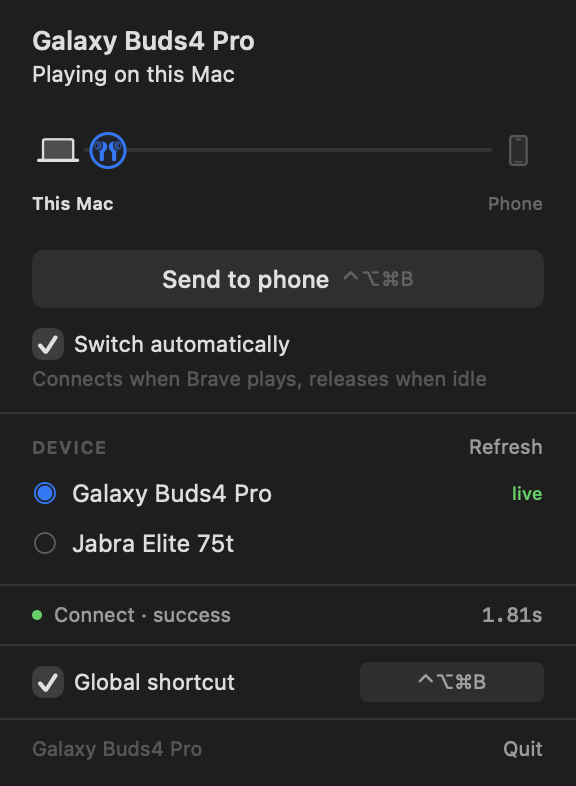
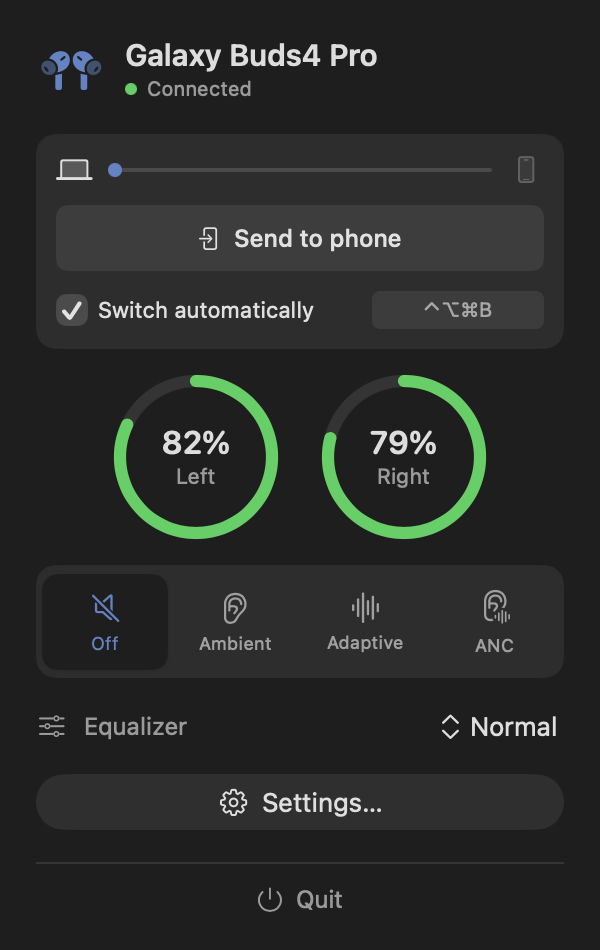
Update the README for the merged app
The README still described BudSwitch as a switcher alone, with screenshots of
a UI that no longer exists — merging it would have put a misleading front
page on main.

Regenerated both panel screenshots from the current UI, dropped the stale
multipoint one, and documented what the app now is: a switcher that is also a
Galaxy Buds control panel, with attribution to galaxy-buds-mac. Also
refreshed the project layout for the SPM tree, the build description now that
SPM compiles rather than a hand-listed swiftc call, and the hotkey rule,
which now requires two modifiers.

diff --git a/README.md b/README.md
@@ -5,6 +5,7 @@
 # BudSwitch
 
 **Your earbuds follow you between your Mac and your phone — automatically.**
+**Battery, ANC and EQ for Galaxy Buds, in the same panel.**
 
 <sub>Free and open source · No account, no telemetry, no network access</sub>
 
@@ -26,6 +27,10 @@ digging into Bluetooth settings, disconnecting, reconnecting — every single ti
 BudSwitch does it for you. Press play on your Mac and your buds come to you. Walk away and
 it frees them, so your phone can take them back — [one routine on the
 phone](#make-it-work-both-ways) makes that automatic too.
+
+For **Galaxy Buds** it is also a full control panel: per-bud battery, noise control,
+equaliser, touch controls and find-my — built on
+[vedatkilic/galaxy-buds-mac](https://github.com/vedatkilic/galaxy-buds-mac).
 
 <div align="center">
 <img src="docs/images/panel-mac.png" width="300" alt="BudSwitch panel with buds connected to the Mac">
@@ -92,21 +97,18 @@ pair them for you.
 | Mac sleeps or locks | Buds released immediately |
 | <kbd>⌃</kbd><kbd>⌥</kbd><kbd>⌘</kbd><kbd>B</kbd> from anywhere | Toggle, always wins |
 
-<table>
-<tr>
-<td width="50%" align="center">
-<img src="docs/images/panel-phone.png" width="290" alt="Buds on the phone">
-<br><em>Buds are on your phone</em>
-</td>
-<td width="50%" align="center">
-<img src="docs/images/panel-multipoint.png" width="290" alt="Multipoint device connected to both">
-<br><em>Multipoint — connected to both, switches in milliseconds</em>
-</td>
-</tr>
-</table>
+<div align="center">
+<img src="docs/images/panel-phone.png" width="290" alt="Buds released to the phone">
+<br><em>Released — the phone can take them</em>
+</div>
 
-The route line shows which side holds your buds. The menubar icon is filled when they're
-on your Mac, dimmed when they're not.
+The route line shows which side holds your buds, and the button moves them. The menubar
+icon is filled when they're on your Mac, dimmed when they're not.
+
+**On Galaxy Buds** the same panel shows per-bud battery (a bud left in the case reads
+`—`, not 0%), noise control, equaliser presets, and a settings window with touch controls
+and find-my. Those need the data connection, which is separate from the audio one — the
+status dot is green when both are up, yellow when only audio is.
 
 > [!NOTE]
 > **"Send to phone" releases the buds — it can't make your phone grab them.** Connecting
@@ -292,8 +294,8 @@ cd BudSwitch
 ./build.sh && open build/BudSwitch.app
 ```
 
-No Xcode project — `build.sh` drives `swiftc` directly and produces a universal binary.
-`./package.sh dmg` builds the installer.
+No Xcode project — SPM builds it (`Package.swift`) and `build.sh` assembles the universal
+`.app` around the result. `./package.sh dmg` builds the installer.
 
 Every push to `main` and every pull request builds on a macOS runner and checks that the
 binary is universal, the Bluetooth usage description is present, `LSUIElement` is set, and
@@ -313,15 +315,21 @@ git push origin main --tags
 <summary><strong>Project layout</strong></summary>
 
 ```
-BudSwitch/
-  App/         BudSwitchApp (MenuBarExtra entry), AppState
-  Bluetooth/   BluetoothController (connect/disconnect), DeviceStore
-  Monitors/    AudioRouteProbe, AudioMonitor, IdleMonitor,
-               PowerMonitor, AppFocusMonitor
-  Core/        Logger, Arbiter (trigger priority), Hotkey
-  UI/          MenuView, HUD, ShortcutRecorder
+Sources/
+  App/         AppDelegate, StatusBarController, AppState
+  Switching/   AudioRouteProbe, AudioMonitor, IdleMonitor, PowerMonitor,
+               AppFocusMonitor, Arbiter, Hotkey, BluetoothController
+  Bluetooth/   BluetoothManager (SPP), SppMessage, MessageId, MultipointInfo
+  Models/      BudsStatus, BudsModel, NoiseControlMode, EqualizerPreset
+  Views/       MenuPopoverView, DashboardView, SoundAncView, WizardView, …
+  UI/          HUD, ShortcutRecorder
+  Resources/   localisations
 Resources/     Info.plist, AppIcon.icns, makeicon.swift
 ```
+
+`Switching/` is BudSwitch's own engine; `Bluetooth/`, `Models/` and `Views/` come from
+[galaxy-buds-mac](https://github.com/vedatkilic/galaxy-buds-mac) (MIT, see
+`LICENSE-galaxy-buds-mac`).
 
 Every state transition is logged. Use `log stream` — `log show` lags by minutes and will
 convince you things are broken when they aren't:
